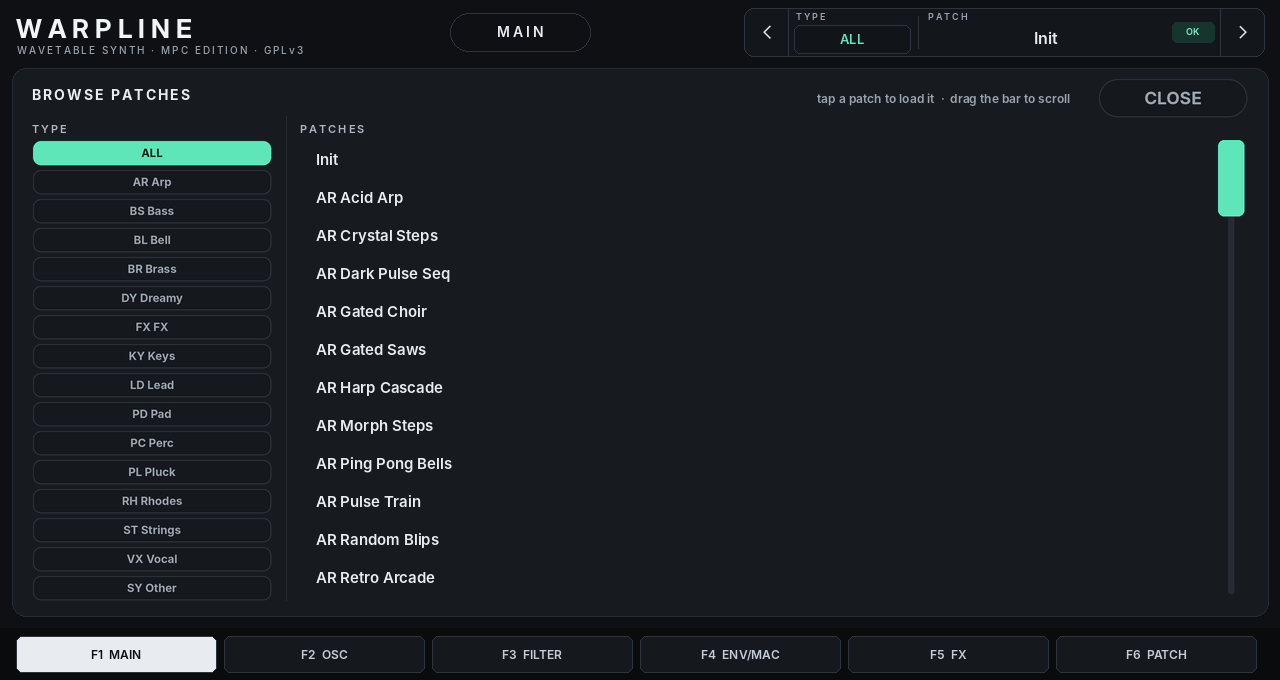
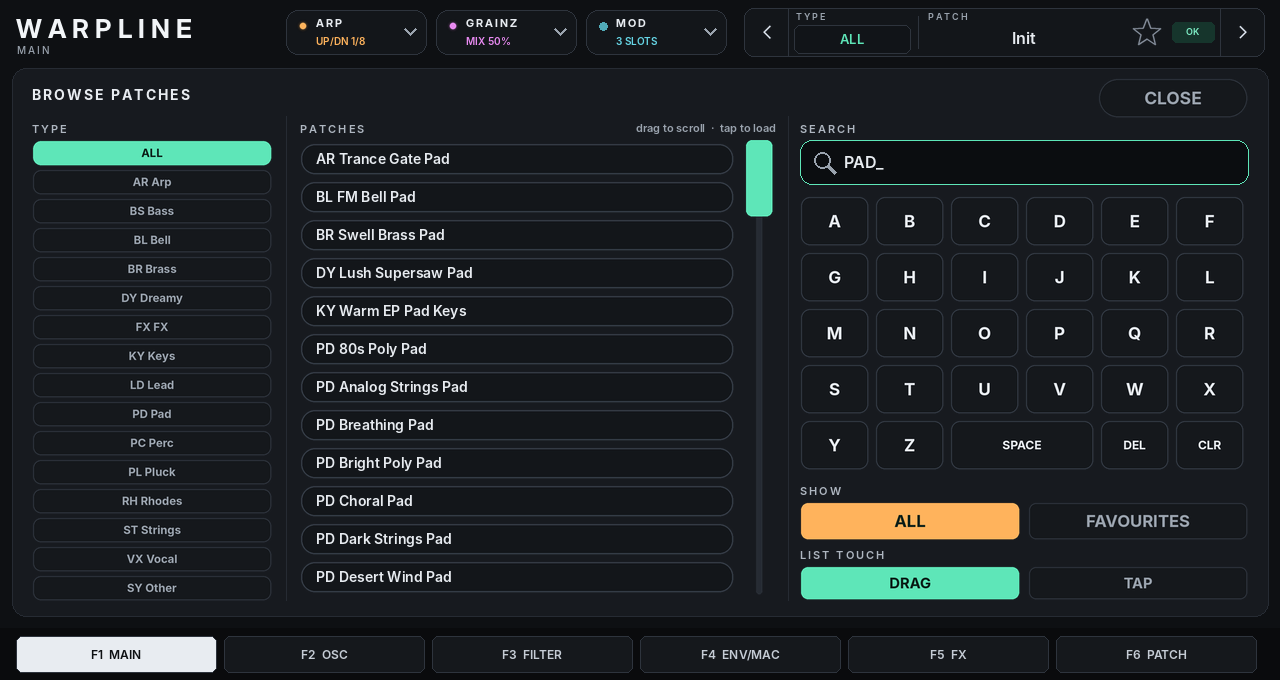
Docs and version 1.1.0
Claude-Session: https://claude.ai/code/session_01F2p31JWVcig8bzQs6DwDs1

diff --git a/README.md b/README.md
@@ -9,6 +9,10 @@ Designed for the **MPC Live III / MPC XL** (64-bit). It also builds for the 32-b
 
 ![Warpline on the MPC](docs/screenshots/warpline.png)
 
+**New in 1.1.0:** an arpeggiator with a 16-step pattern, the GRAINZ granular effect, a 16-slot mod matrix with four LFOs of its
+own, preset search, favourites, outlined list rows, and lists you can scroll by dragging. Each of the three new sections has a chip in the header that shows
+its state and opens its panel.
+
 **Download:** the [Releases](https://github.com/CLVRK3/warpline-mpc/releases) page, or install it from the
 [Open MPC catalog](https://open-mpc.github.io/) with the OpenMPC Plugin Manager.
 
@@ -115,16 +119,60 @@ notes play (about 12 updates a second), instead of only the knob positions. It i
 display-only parameters that cannot be automated, so recording automation never picks them up. If the pictures stutter or
 the screen feels slow on your MPC, switch it off.
 
+## Header chips: ARP, GRAINZ, MOD
+The three chips at the top of every page show what each section is doing (for example `UP/DN 1/8`, `MIX 50%`, `3 SLOTS`).
+Tap a chip to open its full-screen panel and tap **CLOSE** to go back. Only one panel (or the browser) is open at a time.
+
+### Arpeggiator (ARP)
+![The arpeggiator](docs/screenshots/warpline-arp.png)
+
+- **ON** and **LATCH** (keeps playing after you let go; a new chord replaces the old one).
+- **Mode:** Up, Down, Up/Down, Down/Up, Random, As played, Chord (all held notes on every step).
+- **Rate** 1/4 to 1/32, with dotted and triplet values. **Octaves** 1-4, **Gate**, **Swing**, **Accent** (how much louder an accented step is) and **Length** (1-16 steps).
+- **Step pattern:** 16 steps. Tap a step to change it: On > Accent > Tie (holds the note into the next step) > Off. The bar after the last step shows the length, and a marker
+  under the steps shows the one that is playing.
+- With the MPC's sequencer playing, the steps lock to the song position. Otherwise they start on the first note you play.
+- The arp plays Warpline's own voices. MPC doesn't pass plugin MIDI on, so it can't drive other tracks.
+
+### GRAINZ (granular effect)
+![GRAINZ](docs/screenshots/warpline-grainz.png)
+
+GRAINZ is a granular effect on Warpline's output. It keeps the last 1.5 seconds of sound and plays it back as up to 40 overlapping grains.
+- **GRAIN:** grain length (10-500 ms). **SCATTER:** how randomly grains are placed in time. **SPACE:** diffusion (a smeared, roomy tail). **MIX:** dry/wet.
+  Drag across a column, or select it and turn the data wheel. The pictures change with the value.
+- **Detail:** density (grains per second), position (how far back grains start), pitch (±24 semitones), pitch random, stereo spread, reverse
+  (chance that a grain plays backwards), feedback, and **SYNC** (grains on 1/4 to 1/16T instead of the density knob).
+- **FREEZE** holds the buffer, so the grains keep playing what is already in it.
+
+### Mod matrix (MOD)
+![The mod matrix](docs/screenshots/warpline-mod.png)
+
+- **16 slots** on two pages (1-8, 9-16). Each slot has a source, a destination and an amount (-100 to +100 %).
+- **Sources:** Env 1-3, the matrix's LFO 1-4, velocity, mod wheel, aftertouch, random (a new value per note), macros 1-4.
+- **Destinations:** wavetable position, level, detune, warp, morph, pitch and pan of each oscillator, cutoff, reso, drive, blend and mix of both filters,
+  distortion, chorus, phaser, delay and reverb amounts, the matrix LFO rates, and volume.
+- **LFOs page:** shape (sine, triangle, saw up, saw down, square), sync (seconds, tempo, dotted, triplets, keytrack), tempo, mode (trigger, sync, envelope ...)
+  and rate (used when sync is set to Seconds).
+- The matrix comes on top of the patch's own modulation and stays the same when you change patches. Inside the engine, its LFOs are Vital's LFO 5-8.
+  While a slot uses one of them, that LFO follows the matrix. When no slot uses it, it goes back to what the patch set.
+
 ## Patch browser and list
 
 ![The patch browser](docs/screenshots/warpline-browser.png)
 
 ![The PATCH page with its list](docs/screenshots/warpline-patch.png)
 
-- **Browser:** tap **TYPE** or **PATCH** in the bar at the top of any page. A full-screen browser opens: types on the left
-  (tap one to filter), patches on the right (tap one to load it, drag the bar on the right to scroll). The playing patch is
-  outlined. Tap **CLOSE** to go back to the page.
-- **PATCH page list:** the same list, nine rows at a time, with its own scroll bar (drag it, or select it and turn the data wheel).
+- **Browser:** tap **TYPE** or **PATCH** in the bar at the top of any page. A full-screen browser opens with types on the left
+  (tap one to filter), patches in the middle and search on the right. Each patch sits in its own rounded outline, and the playing patch's
+  row is filled. Tap **CLOSE** to go back to the page.
+- **Scrolling:** drag the list up or down, or use the bar on its right. With **LIST TOUCH: DRAG**, a quick tap on a row loads that patch.
+  If tapping picks the wrong row on your MPC, switch to **TAP**: dragging the list then stops, and each row works as a plain button.
+- **Search:** type on the on-screen keyboard (A-Z, SPACE, DEL, CLR). The list shows the patches whose names contain the text,
+  inside the chosen type. The arrows also step through those patches only.
+- **Favourites:** tap the **star** next to the patch name in the header to add or remove the patch. In the browser,
+  **SHOW: FAVOURITES** lists only those. Favourites are saved to `<drive>/Warpline/Favourites.txt` (one patch file name per
+  line), so they survive updates and work in every project.
+- **PATCH page list:** the same list, nine rows at a time, with its own scroll bar and DRAG/TAP switch.
 - The MPC's own double-tap menus show plugin lists without any text, so Warpline does not use them. The arrows, the data wheel
   on the big PATCH box, Q-Link 1 and the MPC's preset list (every patch is a program) also change patches.
 
@@ -187,7 +235,8 @@ Good to know:
 
 ## Files
 - `skins/`: the custom screen (built by `tools_build_skin.py`) · `tools_preview_skin.py`: page previews
-- `src/Warpline.cpp`: the MPC plugin (parameters, pages, patch browser, threading) · `src/VitalCore.*`: drives one Vital engine, loads and saves .vital
+- `src/Warpline.cpp`: the MPC plugin (parameters, pages, patch browser, search, favourites, mod matrix, threading)
+- `src/Arp.h`: the arpeggiator · `src/Granulator.h`: GRAINZ · `src/VitalCore.*`: drives one Vital engine, loads and saves .vital
 - `src/VitalEngine.cpp`: unity build of the engine · `vital/`: Vital's engine sources (synthesis + the parts of common/ it needs)
 - `shim/JuceHeader.h`: tiny stand-in for the few JUCE bits the engine used (macros, Base64). No JUCE is needed.
 - `Content/Patches/`: factory patches · `tools/make_factory.cpp`: rebuilds them (see `tools/README.md`)
@@ -201,7 +250,10 @@ patch upgrader was split out of `load_save.cpp`, kissfft is included outside the
 - Tested here: the native build passes every SDK host-simulator check at 32-, 128- and 512-frame blocks (state save/restore, parameter sweep, all-notes-off).
   150 real-world .vital patches loaded and played with no errors, no NaNs and none silent. Fast patch switching was stress-tested under ThreadSanitizer with no data races.
   The code also compiles cleanly for 32-bit ARM.
-- **Tested on an MPC Live III** (64-bit build). The 32-bit build for older MPCs has not been run on hardware.
+- **Tested on an MPC Live III** (64-bit build, 1.0.0). The 32-bit build for older MPCs has not been run on hardware.
+- 1.1.0 was tested offline here with a test host and ASan. It covers arp timing (free and synced), latch, the step pattern,
+  GRAINZ freeze and extremes, mod matrix routing with LFOs, patch changes with the matrix on, search, favourites, drag/tap, and state reload.
+  The new panels and drag scrolling still need checking on the MPC.
 - The skin is checked with the SDK's `validate.py` (versions, indices, images) and rendered as previews here. Check it on the MPC's screen too.
 
 ## Licence

diff --git a/DEVELOPMENT.md b/DEVELOPMENT.md
@@ -33,6 +33,51 @@ builds still load. Your own patch folder moved from `<drive>\Vitalium\Patches` t
   - When `skins/` exists the SDK copies it as-is; `ui.json` is not used.
 - `tools_preview_skin.py <state.json> <outdir>`: renders PNG previews of every page.
 
+## 1.1.0 additions
+
+- All new parameters come after `Browser` (index 113), in this order:
+  - favourites/search: Favourite, Fav State, Fav Filter, Search, 29 keys;
+  - Panel, the three chip texts;
+  - arp: 9 settings, 16 steps, 16 step taps, Arp Position;
+  - 16 x mod source/dest/amount, 4 LFO shapes, 16 Vital LFO 5-8 controls;
+  - 14 GRAINZ parameters;
+  - List Touch, List Drag, List Drag Page.
+  275 + 3 = 278 in total.
+  `first_v11_index_` splits `parameterChanged`/`formatValue`.
+- **Panels:** one choice parameter `Panel` (Closed, Arp, Granulator, Mod 1-8, Mod 9-16, LFOs).
+  - Each overlay is shown with `IndexedEnabling/<k>/6/Parameter <Panel>`.
+  - It starts with a see-through blocker button that sets Panel to its own value, like the browser's.
+  - Opening a panel closes the browser and the other way round (in `parameterChanged`).
+  - `tools/skin_check.py` reports every page control under a blocker as TOUCH. It doesn't model invalidating handles,
+    so that is expected.
+- **Arp** (`Arp.h`): runs on the audio thread and feeds Warpline's engine directly.
+  - The render loop splits at MIDI events and at `samplesToNextEvent()`.
+  - With the transport playing it resyncs to `ppqPos` (only when drift > 32 samples).
+- **GRAINZ** (`Granulator.h`): after the engine, on the full block.
+  - 1.5 s ring buffer, 40 grains, 6 allpasses for SPACE.
+  - Grains that are pitched up are shortened, so they never pass the write head.
+- **Mod matrix:**
+  - Slot s is Vital modulation `48 + s` (0-based). Patches only get 0-47; a patch's own modulations at 48+ are dropped and counted in the status.
+  - `VitalCore` keeps the routings across patch loads and Init.
+  - Routing changes happen on the worker with audio paused. Amounts are set on the audio thread (`modulation_49_amount` ...).
+  - **Gotcha:** Vital's `disableUnnecessaryModSources()` switches *every* LFO/envelope/random source off, and connecting switches a source on.
+    After disconnecting, `setUserModulation` switches on again the source of every connection that is still there. Without that,
+    changing a slot silenced the patch's own LFOs.
+  - The matrix LFOs are Vital LFO 5-8. A patch's LFO 5-8 settings (4 controls, shape) are saved when a slot first uses one
+    and given back when none does (`syncMatrixLocked`).
+- **Search/favourites:**
+  - `passesFilter()` checks type, query (lower case, without the type code) and favourites, under `filter_mutex_`.
+  - Favourites are file stems ("Init" for Init), in `<drive>/Warpline/Favourites.txt` or the plugin folder (env `WARPLINE_FAVOURITES` for tests).
+    The worker writes them as `.new`, then renames.
+- **Drag scrolling (needs a device check):**
+  - An invisible vertical slider over the rows (`List Drag`, `List Drag Page`), shown while `List Touch` = Drag.
+  - Events less than 250 ms apart are one gesture: the list follows the value change. A gesture with a single event is a tap at
+    that position and loads the row (worker, `checkListTap`).
+  - This assumes MPC sends the absolute touch position on touch-down (the scroll bar's slider seems to). If not, switch to TAP.
+  - The SDK's state loader restores every parameter by id *before* `loadExtraState`, which looks like a one-event gesture.
+    `loadExtraState` therefore clears the gesture, or each project load would "tap" a row and change the patch
+    (found offline, 2026-11-18).
+
 ## Rules that must not break
 
 - Never change the uid `CvVm`, the .so names or parameter ids. Only add new parameters at the END of the list (older ones
@@ -66,6 +111,9 @@ builds still load. Your own patch folder moved from `<drive>\Vitalium\Patches` t
   - Expect PASS.
   - At block 512 the parameter sweep sometimes warns about denormals inside Vital's engine; that warning is harmless.
 - Always try a build on the MPC before releasing: every page, the Q-Links, the browser, save and reload a project.
+
+- 1.1 feature test: `tools/test_v11.cpp` (build line at the top) is a small VST2 host. It drives the arp, GRAINZ, the matrix,
+  search, favourites, drag and a state reload through `setParameter` and prints what it measures. Run it under ASan.
 
 ## User patches
 
